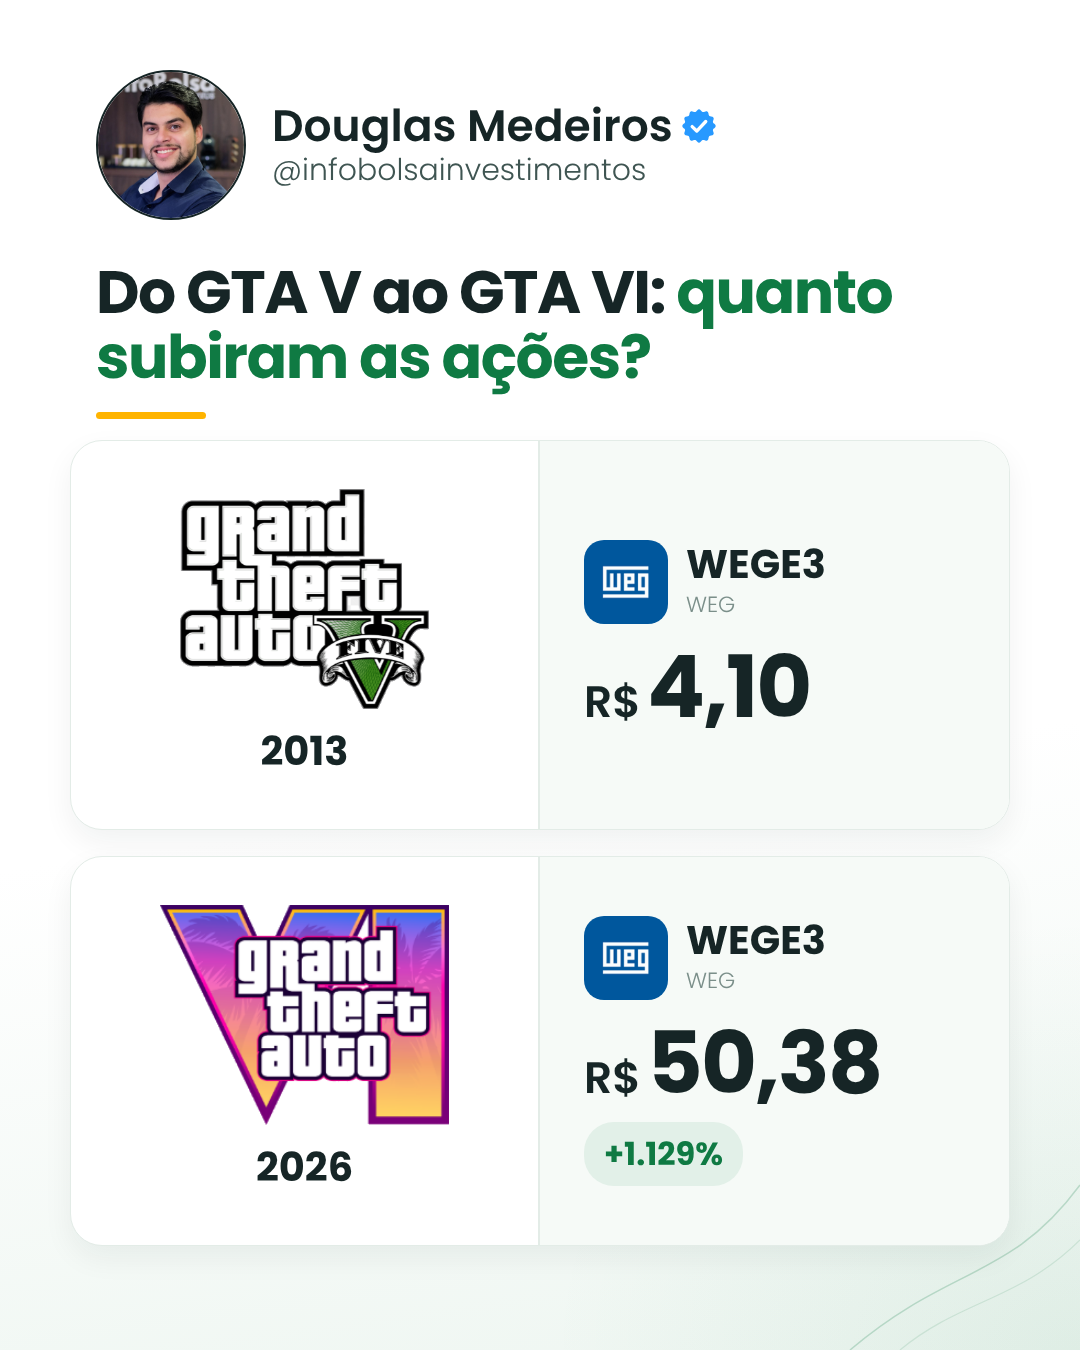
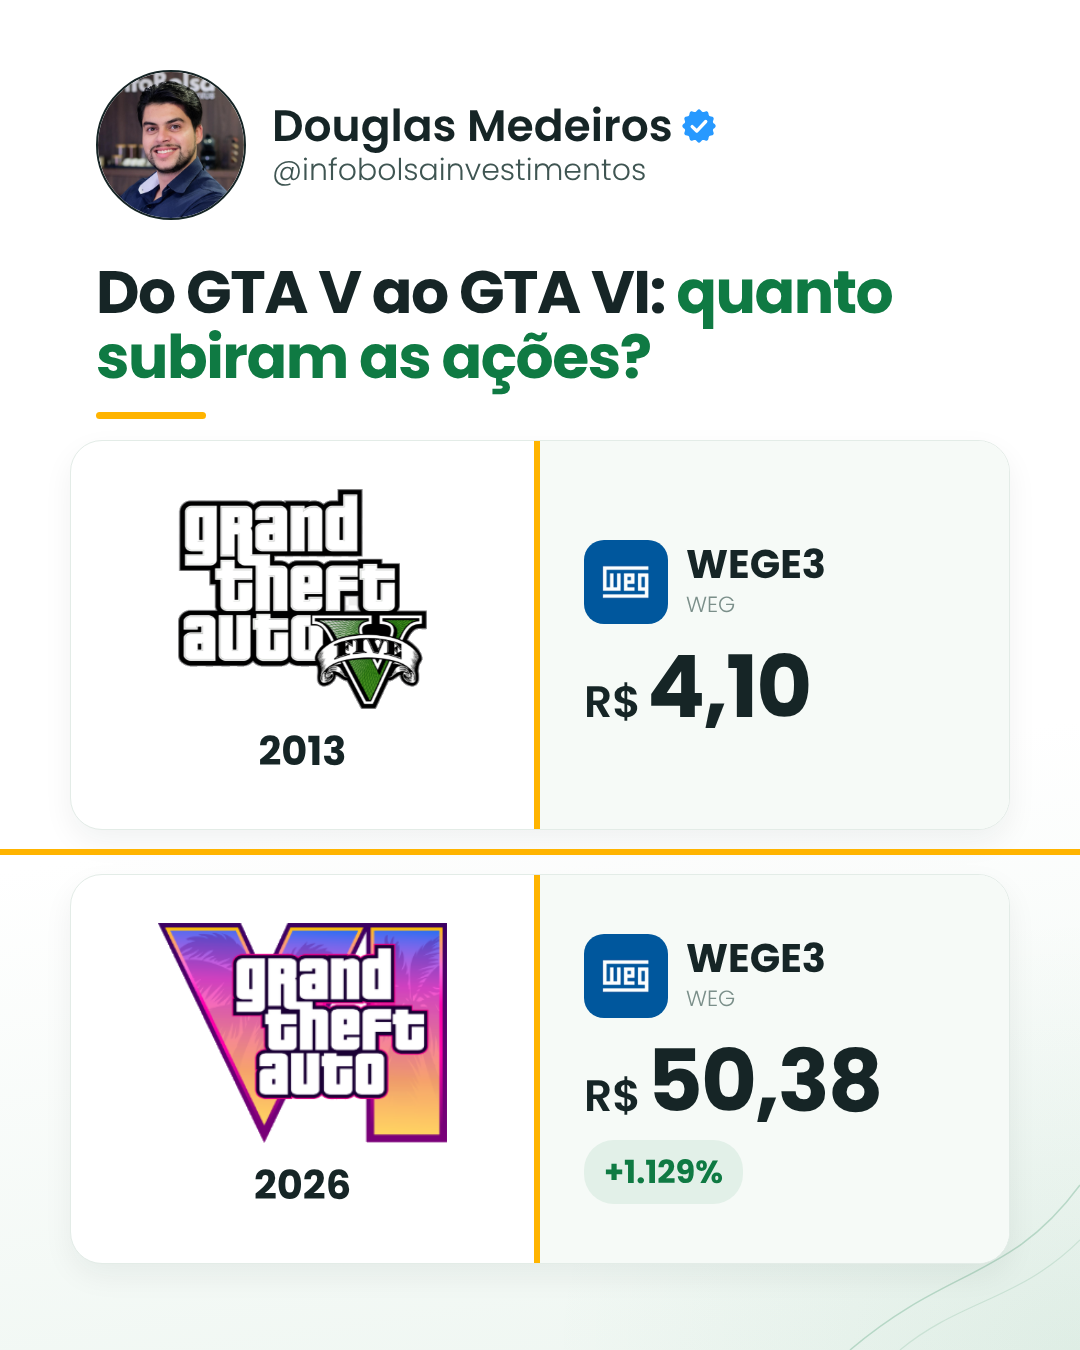
GTA: linhas em destaque e pico de MGLU3, BBAS3 e ABEV3
Claude-Session: https://claude.ai/code/session_01V4Ut9U2W4uPbxLAyJQKmJH

Changed region(s): [[0.0, 0.3422, 1.0, 0.9333], [0.1528, 0.3422, 0.3972, 0.56], [0.8556, 0.9022, 0.9167, 0.9333]]

diff --git a/kit/gen_tw.py b/kit/gen_tw.py
@@ -111,9 +111,10 @@ def tabela(c):
 
 
 CSS_GTA = """
-.gw{position:absolute;left:70px;right:70px;display:flex;flex-direction:column;gap:26px}
+.gw{position:absolute;left:70px;right:70px;display:flex;flex-direction:column;gap:44px}
+.gw .sep{position:absolute;left:-70px;right:-70px;top:calc(var(--ch,390px) + 19px);height:6px;background:#FFB400}
 .gc{display:grid;grid-template-columns:1fr 1fr;height:var(--ch,390px);background:#fff;border:1.5px solid #e3ece7;border-radius:32px;box-shadow:0 12px 30px rgba(22,37,38,.06);overflow:hidden}
-.gc .l{display:flex;flex-direction:column;align-items:center;justify-content:center;border-right:2px solid #e3ece7}
+.gc .l{display:flex;flex-direction:column;align-items:center;justify-content:center;border-right:6px solid #FFB400}
 .gc .l img{width:300px;height:220px;object-fit:contain}
 .gc .l .y{font-weight:700;font-size:40px;color:#162526;margin-top:12px}
 .gc .r{display:flex;flex-direction:column;justify-content:center;padding:0 44px;background:#f6faf7}
@@ -124,6 +125,7 @@ CSS_GTA = """
 .gc .p{font-weight:700;font-size:86px;letter-spacing:-2px;color:#162526;margin-top:20px;line-height:1}
 .gc .p small{font-size:44px;letter-spacing:0;margin-right:6px;font-weight:600}
 .gc .v{align-self:flex-start;margin-top:16px;font-weight:700;font-size:32px;padding:8px 20px;border-radius:30px}
+.gc .pk{margin-top:14px;font-size:24px;color:#7b8f8a;line-height:1.3}.gc .pk b{color:#c0392b}
 .gc .up{background:#e2f0e8;color:#0f7a43}.gc .dn{background:#f8e1de;color:#c0392b}
 """
 
@@ -133,8 +135,9 @@ def gta(c, x, titulo):
     cls = "dn" if x["var"].startswith("-") else "up"
     card = lambda glogo, ano, pr, extra: (f'<div class="gc"><div class="l"><img src="{glogo}"><div class="y">{ano}</div></div>'
                                          f'<div class="r">{lg}<div class="p num"><small>R$</small>{pr}</div>{extra}</div></div>')
-    corpo = (f'<style>{CSS_GTA}</style><div class="gw" style="top:{c.get("top", 420)}px;--ch:{c.get("ch", 390)}px">'
+    corpo = (f'<style>{CSS_GTA}</style><div class="gw" style="top:{c.get("top", 420) + (55 if x.get("pico") else 0)}px;--ch:{c.get("ch", 390) - (15 if x.get("pico") else 0)}px">'
              + card(c["logo_a"], c["ano_a"], x["a"], "")
+             + '<div class="sep"></div>'
              + card(c["logo_b"], c["ano_b"], x["b"], f'<div class="v num {cls}">{x["var"]}</div>') + "</div>")
     return _pag({**c, "titulo": titulo}, corpo)
 
@@ -146,6 +149,8 @@ if __name__ == "__main__":
         for i, x in enumerate(c["itens"], 1):
             cor = "#c0392b" if x["var"].startswith("-") else "#0f7a43"
             t = c["titulo"] if i == 1 else f'{x["nome"]}: <span style="color:{cor}">{x["var"]}</span>'
+            if x.get("pico"):
+                t += f'<div style="font-size:30px;font-weight:500;letter-spacing:0;color:#3f5552;margin-top:12px;line-height:1.3">{x["pico"]}</div>'
             open(f"{out}-{i}.html", "w").write(gta(c, x, t))
         sys.exit()
     c = json.load(open(cfg))
